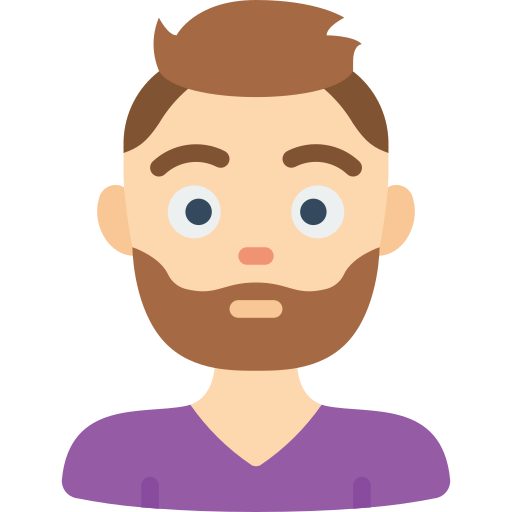
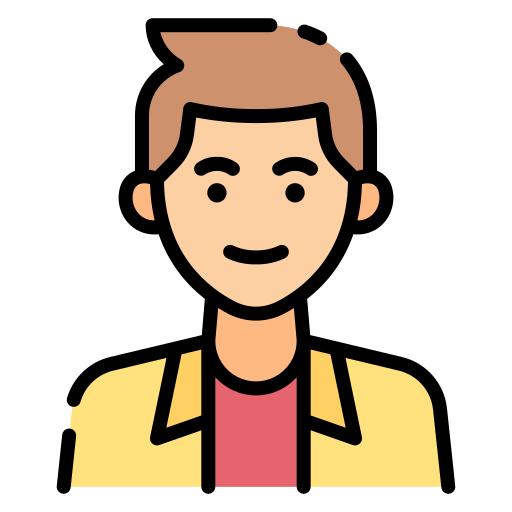
Completed "About Me" Section

diff --git a/style.css b/style.css
@@ -128,13 +128,13 @@ header {
     gap: 7rem;
     font-size: 1.5rem;
     height: 4rem;
-    background-color: white;
-    box-shadow: inset 0 -10px 20px -8px rgb(32, 32, 32),
-                inset 0 10px 10px -8px rgb(32, 32, 32);
+    background-color: var(--span-color);
+    box-shadow: 0px 0px 10px 1px black;
     /* border-top: 5px solid black;
     border-bottom: 5px solid black; */
     position: sticky;
     top: 0;
+    z-index: 999;
 }
 
 .sticky-header a {
@@ -160,9 +160,9 @@ header {
 
 .about-section {
     height: 100px;
-    background-image: url("img/about-background.png");
-    background-color: #00191c;
-    background-size: cover;
+    background-image: url("img/floor-tile.png");
+    background-color: #d8d8d8;
+    background-size: repeat;
     background-blend-mode: multiply;
     text-align: center;
     padding-top: 4rem;
@@ -176,8 +176,8 @@ header {
 .about-section h3 {
     margin: 0;
     font-family: var(--font);
-    font-weight: 300;
-    color: white;
+    font-weight: 800;
+    color: black;
 }
 
 .about-heading {
@@ -188,7 +188,7 @@ header {
 .about-heading::before {
     content: "";
     position: absolute;
-    background-color: #004048;
+    background-color: var(--span-color);
     height: 20px;
     width: 350px;
     top: 65px;
@@ -201,7 +201,7 @@ header {
     display: flex;
     justify-content: center;
     align-items: center;
-    height: 80%;
+    max-height: 80%;
     gap: 4rem;
 }
 
@@ -214,12 +214,36 @@ header {
     display: flex;
     justify-content: center;
     align-items: center;
+    flex-direction: column;
+    position: relative;
 
-    border: 2px solid white;
-    height: 600px;
-    width: 400px;
-    padding: 2rem;
+    border: 5px solid black;
+    /* height: 600px;
+    width: 400px; */
+    /* padding-top: 2rem; */
+    border-radius: 100%;
+    overflow: hidden;
+    background-color: rgb(250, 88, 88);
+}
+
+.portrait-wrapper {
+    position: relative;
+    display: flex;
+    flex-direction: column;
+    align-items: center;
+}
+
+.portrait-nametag {
+    position: absolute;
+    overflow: visible;
+    margin: 0 auto;
+    bottom: -1rem;
+    border: 3px solid black;
     border-radius: 1rem;
+    background-color: rgb(40, 40, 40);
+    padding: .3rem 1rem;
+    color: white;
+    font-weight: 300;
 }
 
 .about__info {
@@ -228,7 +252,7 @@ header {
     justify-content: center;
 
     padding: 2rem;
-    border: 2px solid white;
+    /* border: 2px solid white; */
     height: 600px;
     width: 400px;
     border-radius: 1rem;
@@ -237,20 +261,68 @@ header {
 .about__info-header {
     margin: 0;
     text-align: left;
+    display: inline-block;
+    font-size: 2.8rem;
+    font-weight: bold;
+    color: black;
+}
+
+.info-spans {
+    color: var(--span-color);
 }
 
 .about__info-text {
-    font-size: 1rem;
+    font-size: 1.3rem;
     text-align: left;
+    color: black;
+    font-weight: 400;
 }
 
-.project-section {
+.about-skills {
+    /* border: 2px solid black; */
+    min-height: 20%;
+    width: 90%;
+    display: flex;
+    justify-content: center;
+    margin: 0 auto;
+    border-radius: 1rem;
+    gap: 2rem;
+}
+
+.icon-wrapper {
+    height: auto;
+    display: flex;
+    align-items: center;
+    /* background-color: white;
+    border-radius: 100%; */
+}
+
+.icon {
     height: 100px;
 }
 
 .contact-section {
     height: 100px;
 }
+
+/********************************* Projects *********************************/
+
+.project-section {
+    min-height: 100px;
+    background-image: url("img/background-image.jpg");
+    background-color: #845a4a;
+    background-size: cover;
+    background-blend-mode: multiply;
+    text-align: center;
+    padding-top: 4rem;
+    font-size: 4rem;
+    height: 1000px;
+    display: flex;
+    text-align: center;
+    flex-direction: column;
+    box-shadow: 0px 0px 10px 1px black;
+}
+
 
 
 

diff --git a/index.html b/index.html
@@ -43,17 +43,42 @@
         <div class="about-section" id="about">
             <h3 class="about-heading">ABOUT ME</h3>
             <div class="info-wrapper">
-                <div class="portrait">
-                    <img src="img/portrait.png" alt="">
+                <div class="portrait-wrapper">
+                    <div class="portrait">
+                        <img class="self-portrait" src="img/portrait.png" alt="">
+                    </div>
+                    <h6 class="portrait-nametag">Shawn Ballay</h6>
                 </div>
                 <div class="about__info">
-                    <h6 class="about__info-header">Teacher</h6>
-                    <p class="about__info-text">Lorem ipsum dolor sit amet
-                        consectetur adipisicing elit. Aperiam maxime quisquam
-                        esse minus reiciendis suscipit vitae repudiandae saepe
-                        tempora. Libero maxime beatae eligendi! Molestias
-                        laborum obcaecati recusandae, quaerat ad repellendus?
+                    <div class="about__info-header">
+                        <span class="about-typed-out"></span>
+                    </div>
+                    <p class="about__info-text">I am a <span
+                            class="info-spans">former teacher</span> who has
+                        finally found his professional <span
+                            class="info-spans">passion in software
+                            development</span>. I hold a <span
+                            class="info-spans">Master's Degree in Elementary
+                            Education</span> and cherish the time I was able to
+                        spend as an educator. I spend some of my free time
+                        continuing to work with kids as I've found it's <span
+                            class="info-spans">the one aspect of teaching I just
+                            can't give up</span>.
                     </p>
+                    <p class="about__info-text">
+                        In addition to my passions for <span class="info-spans">JavaScript</span> and <span class="info-spans">Tailwind CSS</span>, I also excel at making the <span class="info-spans">worst puns</span> you've never heard and filling 95% of my non work related conversation with <span class="info-spans">self-deprecating sarcasm</span>.
+                    </p>
+                </div>
+            </div>
+            <div class="about-skills">
+                <div class="icon-wrapper">
+                    <img class="icon" src="img/html.png" alt="">
+                </div>
+                <div class="icon-wrapper">
+                    <img class="icon" src="img/javascript.png" alt="">
+                </div>
+                <div class="icon-wrapper">
+                    <img class="icon" src="img/CSS.png" alt="">
                 </div>
             </div>
         </div>
@@ -81,6 +106,15 @@
             ],
             typeSpeed: 75,
             backSpeed: 50,
+            loop: true
+        })
+    </script>
+
+    <script>
+        var typed = new Typed(".about-typed-out", {
+            strings: ["Teacher", "Web Developer"],
+            typeSpeed: 25,
+            backSpeed: 35,
             loop: true
         })
     </script>
